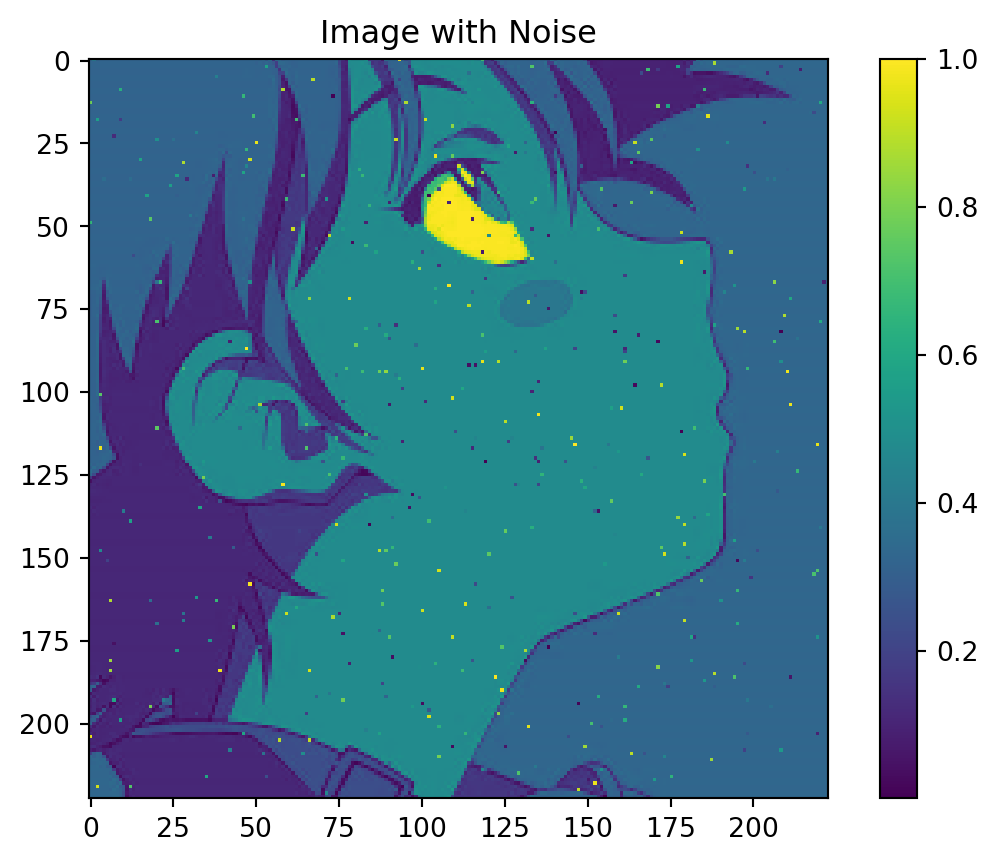
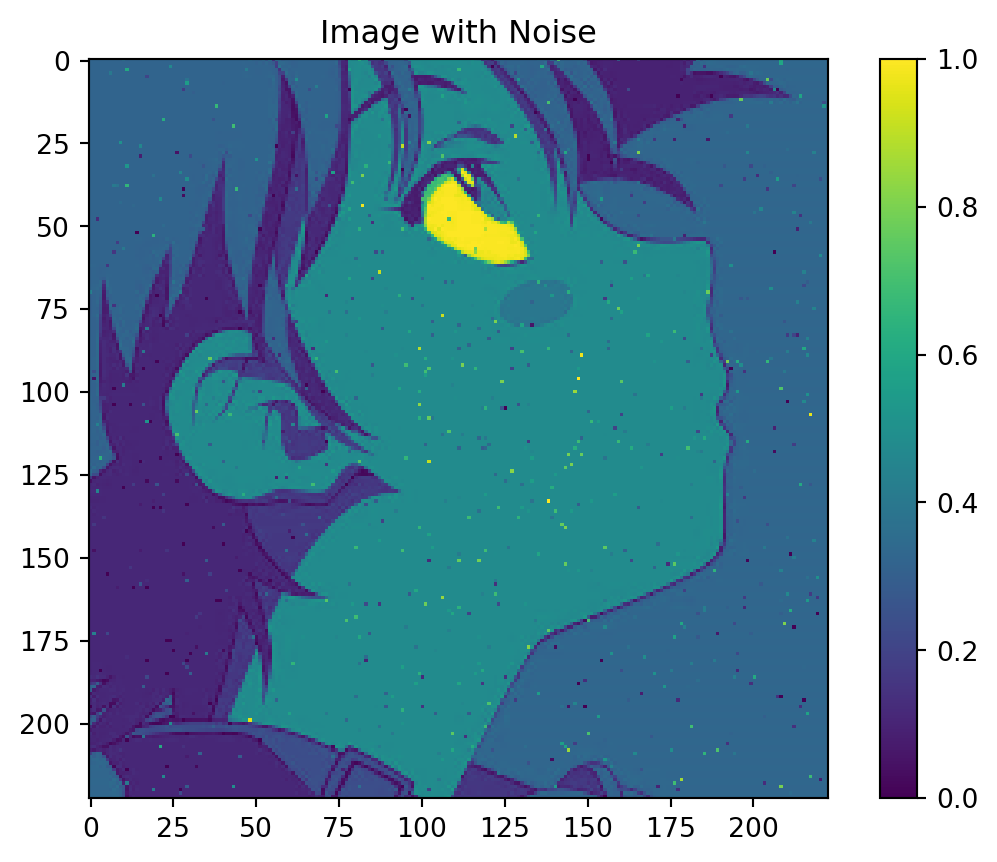
update demo: guided_filter_20240202

Changed region(s): [[0.9328, 0.9049, 0.995, 0.935]]

diff --git a/guided_filter_20240202.html b/guided_filter_20240202.html
@@ -277,8 +277,8 @@ q_i &amp;= \frac{1}{|\omega|} \sum_{k:i\in\omega_k}(a_kI_i+b_k) \\
 <p>接著，爲原圖像加上簡單的噪聲：</p>
 <div class="cell" data-execution_count="3">
 <div class="sourceCode cell-code" id="cb3"><pre class="sourceCode python code-with-copy"><code class="sourceCode python"><span id="cb3-1"><a aria-hidden="true" href="#cb3-1" tabindex="-1"></a>img_gray_with_noise <span class="op">=</span> img_gray <span class="op">*</span> <span class="dv">1</span></span>
-<span id="cb3-2"><a aria-hidden="true" href="#cb3-2" tabindex="-1"></a>coords <span class="op">=</span> <span class="bu">tuple</span>(np.random.randint(<span class="dv">0</span>, size <span class="op">-</span> <span class="dv">1</span>, <span class="dv">500</span>) <span class="cf">for</span> size <span class="kw">in</span> img_gray.shape)</span>
-<span id="cb3-3"><a aria-hidden="true" href="#cb3-3" tabindex="-1"></a>img_gray_with_noise[coords] <span class="op">=</span> np.random.random((<span class="bu">len</span>(coords[<span class="dv">0</span>]), ))</span>
+<span id="cb3-2"><a aria-hidden="true" href="#cb3-2" tabindex="-1"></a>coords <span class="op">=</span> <span class="bu">tuple</span>(np.random.randint(<span class="dv">0</span>, size <span class="op">-</span> <span class="dv">1</span>, <span class="dv">1000</span>) <span class="cf">for</span> size <span class="kw">in</span> img_gray.shape)</span>
+<span id="cb3-3"><a aria-hidden="true" href="#cb3-3" tabindex="-1"></a>img_gray_with_noise[coords] <span class="op">+=</span> np.random.randn(<span class="bu">len</span>(coords[<span class="dv">0</span>]), ) <span class="op">*</span> <span class="fl">0.2</span></span>
 <span id="cb3-4"><a aria-hidden="true" href="#cb3-4" tabindex="-1"></a>img_gray_with_noise <span class="op">=</span> np.clip(img_gray_with_noise, <span class="dv">0</span>, <span class="dv">1</span>)</span>
 <span id="cb3-5"><a aria-hidden="true" href="#cb3-5" tabindex="-1"></a></span>
 <span id="cb3-6"><a aria-hidden="true" href="#cb3-6" tabindex="-1"></a>plt.imshow(img_gray_with_noise)</span>
@@ -298,26 +298,24 @@ q_i &amp;= \frac{1}{|\omega|} \sum_{k:i\in\omega_k}(a_kI_i+b_k) \\
 <span id="cb4-6"><a aria-hidden="true" href="#cb4-6" tabindex="-1"></a>    epsilon<span class="op">=</span><span class="fl">0.01</span></span>
 <span id="cb4-7"><a aria-hidden="true" href="#cb4-7" tabindex="-1"></a>)</span>
 <span id="cb4-8"><a aria-hidden="true" href="#cb4-8" tabindex="-1"></a></span>
-<span id="cb4-9"><a aria-hidden="true" href="#cb4-9" tabindex="-1"></a>plt.figure(figsize<span class="op">=</span>(<span class="dv">9</span>, <span class="dv">3</span>))</span>
-<span id="cb4-10"><a aria-hidden="true" href="#cb4-10" tabindex="-1"></a>plt.subplot(<span class="dv">121</span>)</span>
+<span id="cb4-9"><a aria-hidden="true" href="#cb4-9" tabindex="-1"></a>plt.figure(figsize<span class="op">=</span>(<span class="dv">6</span>, <span class="dv">18</span>))</span>
+<span id="cb4-10"><a aria-hidden="true" href="#cb4-10" tabindex="-1"></a>plt.subplot(<span class="dv">311</span>)</span>
 <span id="cb4-11"><a aria-hidden="true" href="#cb4-11" tabindex="-1"></a>plt.imshow(img_gray)</span>
 <span id="cb4-12"><a aria-hidden="true" href="#cb4-12" tabindex="-1"></a>plt.title(<span class="st">'Original Image'</span>)</span>
 <span id="cb4-13"><a aria-hidden="true" href="#cb4-13" tabindex="-1"></a>plt.colorbar()</span>
-<span id="cb4-14"><a aria-hidden="true" href="#cb4-14" tabindex="-1"></a>plt.subplot(<span class="dv">122</span>)</span>
-<span id="cb4-15"><a aria-hidden="true" href="#cb4-15" tabindex="-1"></a>plt.imshow(img_gray_with_noise)</span>
-<span id="cb4-16"><a aria-hidden="true" href="#cb4-16" tabindex="-1"></a>plt.title(<span class="st">'Image with Noise'</span>)</span>
-<span id="cb4-17"><a aria-hidden="true" href="#cb4-17" tabindex="-1"></a>plt.colorbar()</span>
-<span id="cb4-18"><a aria-hidden="true" href="#cb4-18" tabindex="-1"></a>plt.show()</span>
+<span id="cb4-14"><a aria-hidden="true" href="#cb4-14" tabindex="-1"></a></span>
+<span id="cb4-15"><a aria-hidden="true" href="#cb4-15" tabindex="-1"></a>plt.subplot(<span class="dv">312</span>)</span>
+<span id="cb4-16"><a aria-hidden="true" href="#cb4-16" tabindex="-1"></a>plt.imshow(img_gray_with_noise)</span>
+<span id="cb4-17"><a aria-hidden="true" href="#cb4-17" tabindex="-1"></a>plt.title(<span class="st">'Image with Noise'</span>)</span>
+<span id="cb4-18"><a aria-hidden="true" href="#cb4-18" tabindex="-1"></a>plt.colorbar()</span>
 <span id="cb4-19"><a aria-hidden="true" href="#cb4-19" tabindex="-1"></a></span>
-<span id="cb4-20"><a aria-hidden="true" href="#cb4-20" tabindex="-1"></a>plt.imshow(out_gray)</span>
-<span id="cb4-21"><a aria-hidden="true" href="#cb4-21" tabindex="-1"></a>plt.title(<span class="st">'After Filtering'</span>)</span>
-<span id="cb4-22"><a aria-hidden="true" href="#cb4-22" tabindex="-1"></a>plt.colorbar()</span>
-<span id="cb4-23"><a aria-hidden="true" href="#cb4-23" tabindex="-1"></a>plt.show()</span></code><button class="code-copy-button" title="复制到剪贴板"><i class="bi"></i></button></pre></div>
+<span id="cb4-20"><a aria-hidden="true" href="#cb4-20" tabindex="-1"></a>plt.subplot(<span class="dv">313</span>)</span>
+<span id="cb4-21"><a aria-hidden="true" href="#cb4-21" tabindex="-1"></a>plt.imshow(out_gray)</span>
+<span id="cb4-22"><a aria-hidden="true" href="#cb4-22" tabindex="-1"></a>plt.title(<span class="st">'After Filtering'</span>)</span>
+<span id="cb4-23"><a aria-hidden="true" href="#cb4-23" tabindex="-1"></a>plt.colorbar()</span>
+<span id="cb4-24"><a aria-hidden="true" href="#cb4-24" tabindex="-1"></a>plt.show()</span></code><button class="code-copy-button" title="复制到剪贴板"><i class="bi"></i></button></pre></div>
 <div class="cell-output cell-output-display">
-<p><img height="283" src="guided_filter_20240202\figure-html\cell-5-output-1.png" width="698"/></p>
-</div>
-<div class="cell-output cell-output-display">
-<p><img height="431" src="guided_filter_20240202\figure-html\cell-5-output-2.png" width="499"/></p>
+<p><img height="1360" src="guided_filter_20240202\figure-html\cell-5-output-1.png" width="484"/></p>
 </div>
 </div>
 <p>從濾波結果中可以看到，圖像中角色面部大部分的噪點都被成功的平滑了。美中不足的是，綫條附近的噪點仍然被保留下來。這是因爲導向濾波是一個<strong>保邊</strong>的濾波器。如果遇到圖像的邊緣，那麽這個地方的平滑效果就會降低。</p>

diff --git a/guided_filter_20240202_zh-cn.html b/guided_filter_20240202_zh-cn.html
@@ -277,8 +277,8 @@ q_i &amp;= \frac{1}{|\omega|} \sum_{k:i\in\omega_k}(a_kI_i+b_k) \\
 <p>接著，为原图像加上简单的噪声：</p>
 <div class="cell" data-execution_count="3">
 <div class="sourceCode cell-code" id="cb3"><pre class="sourceCode python code-with-copy"><code class="sourceCode python"><span id="cb3-1"><a aria-hidden="true" href="#cb3-1" tabindex="-1"></a>img_gray_with_noise <span class="op">=</span> img_gray <span class="op">*</span> <span class="dv">1</span></span>
-<span id="cb3-2"><a aria-hidden="true" href="#cb3-2" tabindex="-1"></a>coords <span class="op">=</span> <span class="bu">tuple</span>(np.random.randint(<span class="dv">0</span>, size <span class="op">-</span> <span class="dv">1</span>, <span class="dv">500</span>) <span class="cf">for</span> size <span class="kw">in</span> img_gray.shape)</span>
-<span id="cb3-3"><a aria-hidden="true" href="#cb3-3" tabindex="-1"></a>img_gray_with_noise[coords] <span class="op">=</span> np.random.random((<span class="bu">len</span>(coords[<span class="dv">0</span>]), ))</span>
+<span id="cb3-2"><a aria-hidden="true" href="#cb3-2" tabindex="-1"></a>coords <span class="op">=</span> <span class="bu">tuple</span>(np.random.randint(<span class="dv">0</span>, size <span class="op">-</span> <span class="dv">1</span>, <span class="dv">1000</span>) <span class="cf">for</span> size <span class="kw">in</span> img_gray.shape)</span>
+<span id="cb3-3"><a aria-hidden="true" href="#cb3-3" tabindex="-1"></a>img_gray_with_noise[coords] <span class="op">+=</span> np.random.randn(<span class="bu">len</span>(coords[<span class="dv">0</span>]), ) <span class="op">*</span> <span class="fl">0.2</span></span>
 <span id="cb3-4"><a aria-hidden="true" href="#cb3-4" tabindex="-1"></a>img_gray_with_noise <span class="op">=</span> np.clip(img_gray_with_noise, <span class="dv">0</span>, <span class="dv">1</span>)</span>
 <span id="cb3-5"><a aria-hidden="true" href="#cb3-5" tabindex="-1"></a></span>
 <span id="cb3-6"><a aria-hidden="true" href="#cb3-6" tabindex="-1"></a>plt.imshow(img_gray_with_noise)</span>
@@ -298,26 +298,24 @@ q_i &amp;= \frac{1}{|\omega|} \sum_{k:i\in\omega_k}(a_kI_i+b_k) \\
 <span id="cb4-6"><a aria-hidden="true" href="#cb4-6" tabindex="-1"></a>    epsilon<span class="op">=</span><span class="fl">0.01</span></span>
 <span id="cb4-7"><a aria-hidden="true" href="#cb4-7" tabindex="-1"></a>)</span>
 <span id="cb4-8"><a aria-hidden="true" href="#cb4-8" tabindex="-1"></a></span>
-<span id="cb4-9"><a aria-hidden="true" href="#cb4-9" tabindex="-1"></a>plt.figure(figsize<span class="op">=</span>(<span class="dv">9</span>, <span class="dv">3</span>))</span>
-<span id="cb4-10"><a aria-hidden="true" href="#cb4-10" tabindex="-1"></a>plt.subplot(<span class="dv">121</span>)</span>
+<span id="cb4-9"><a aria-hidden="true" href="#cb4-9" tabindex="-1"></a>plt.figure(figsize<span class="op">=</span>(<span class="dv">6</span>, <span class="dv">18</span>))</span>
+<span id="cb4-10"><a aria-hidden="true" href="#cb4-10" tabindex="-1"></a>plt.subplot(<span class="dv">311</span>)</span>
 <span id="cb4-11"><a aria-hidden="true" href="#cb4-11" tabindex="-1"></a>plt.imshow(img_gray)</span>
 <span id="cb4-12"><a aria-hidden="true" href="#cb4-12" tabindex="-1"></a>plt.title(<span class="st">'Original Image'</span>)</span>
 <span id="cb4-13"><a aria-hidden="true" href="#cb4-13" tabindex="-1"></a>plt.colorbar()</span>
-<span id="cb4-14"><a aria-hidden="true" href="#cb4-14" tabindex="-1"></a>plt.subplot(<span class="dv">122</span>)</span>
-<span id="cb4-15"><a aria-hidden="true" href="#cb4-15" tabindex="-1"></a>plt.imshow(img_gray_with_noise)</span>
-<span id="cb4-16"><a aria-hidden="true" href="#cb4-16" tabindex="-1"></a>plt.title(<span class="st">'Image with Noise'</span>)</span>
-<span id="cb4-17"><a aria-hidden="true" href="#cb4-17" tabindex="-1"></a>plt.colorbar()</span>
-<span id="cb4-18"><a aria-hidden="true" href="#cb4-18" tabindex="-1"></a>plt.show()</span>
+<span id="cb4-14"><a aria-hidden="true" href="#cb4-14" tabindex="-1"></a></span>
+<span id="cb4-15"><a aria-hidden="true" href="#cb4-15" tabindex="-1"></a>plt.subplot(<span class="dv">312</span>)</span>
+<span id="cb4-16"><a aria-hidden="true" href="#cb4-16" tabindex="-1"></a>plt.imshow(img_gray_with_noise)</span>
+<span id="cb4-17"><a aria-hidden="true" href="#cb4-17" tabindex="-1"></a>plt.title(<span class="st">'Image with Noise'</span>)</span>
+<span id="cb4-18"><a aria-hidden="true" href="#cb4-18" tabindex="-1"></a>plt.colorbar()</span>
 <span id="cb4-19"><a aria-hidden="true" href="#cb4-19" tabindex="-1"></a></span>
-<span id="cb4-20"><a aria-hidden="true" href="#cb4-20" tabindex="-1"></a>plt.imshow(out_gray)</span>
-<span id="cb4-21"><a aria-hidden="true" href="#cb4-21" tabindex="-1"></a>plt.title(<span class="st">'After Filtering'</span>)</span>
-<span id="cb4-22"><a aria-hidden="true" href="#cb4-22" tabindex="-1"></a>plt.colorbar()</span>
-<span id="cb4-23"><a aria-hidden="true" href="#cb4-23" tabindex="-1"></a>plt.show()</span></code><button class="code-copy-button" title="复制到剪贴板"><i class="bi"></i></button></pre></div>
+<span id="cb4-20"><a aria-hidden="true" href="#cb4-20" tabindex="-1"></a>plt.subplot(<span class="dv">313</span>)</span>
+<span id="cb4-21"><a aria-hidden="true" href="#cb4-21" tabindex="-1"></a>plt.imshow(out_gray)</span>
+<span id="cb4-22"><a aria-hidden="true" href="#cb4-22" tabindex="-1"></a>plt.title(<span class="st">'After Filtering'</span>)</span>
+<span id="cb4-23"><a aria-hidden="true" href="#cb4-23" tabindex="-1"></a>plt.colorbar()</span>
+<span id="cb4-24"><a aria-hidden="true" href="#cb4-24" tabindex="-1"></a>plt.show()</span></code><button class="code-copy-button" title="复制到剪贴板"><i class="bi"></i></button></pre></div>
 <div class="cell-output cell-output-display">
-<p><img height="283" src="guided_filter_20240202\figure-html\cell-5-output-1.png" width="698"/></p>
-</div>
-<div class="cell-output cell-output-display">
-<p><img height="431" src="guided_filter_20240202\figure-html\cell-5-output-2.png" width="499"/></p>
+<p><img height="1360" src="guided_filter_20240202\figure-html\cell-5-output-1.png" width="484"/></p>
 </div>
 </div>
 <p>从滤波结果中可以看到，图像中角色面部大部分的噪点都被成功的平滑了。美中不足的是，线条附近的噪点仍然被保留下来。这是因为导向滤波是一个<strong>保边</strong>的滤波器。如果遇到图像的边缘，那么这个地方的平滑效果就会降低。</p>
